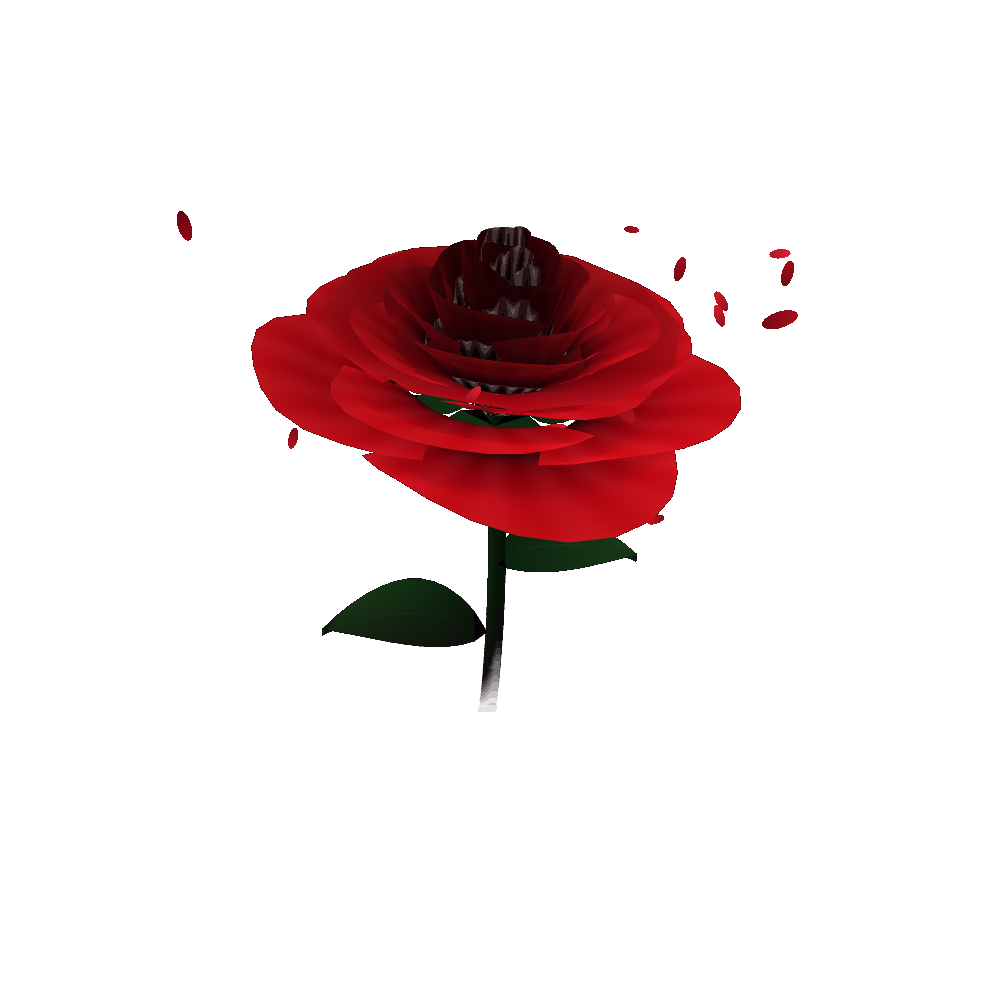
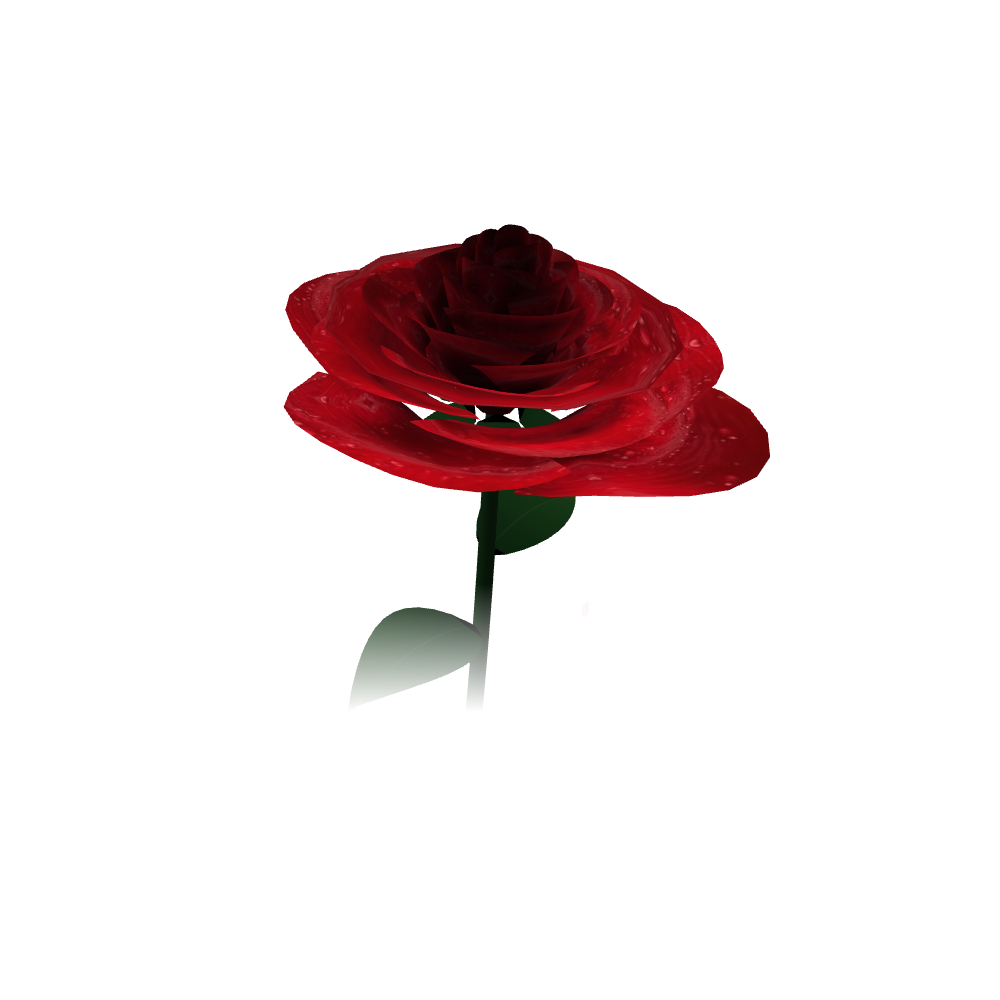
Hero: frosted-glass rose card over coloured orbs, transparent posters, glossier petals
Claude-Session: https://claude.ai/code/session_01FC4sCrQXk4htnob6MgsH5o

Changed region(s): [[0.248, 0.217, 0.806, 0.713], [0.155, 0.217, 0.217, 0.248], [0.775, 0.248, 0.806, 0.279]]

diff --git a/gulegul-3d-flower/index.html b/gulegul-3d-flower/index.html
@@ -45,7 +45,12 @@ h1 em{font-style:italic;color:var(--primary)}
 .btn svg{width:18px;height:18px;flex:none}
 
 /* The rose is sized by its container, never the viewport — this is what stops the clipped hero. */
-.hero-art{position:relative;border-radius:28px;background:radial-gradient(75% 65% at 50% 38%,#4a0c1a 0%,#230610 55%,#12030a 100%);box-shadow:0 30px 70px -30px rgba(131,24,67,.55),inset 0 1px 0 rgba(255,255,255,.12);width:100%;aspect-ratio:1/1;max-height:70svh;min-height:300px;justify-self:center;overflow:hidden;contain:layout paint}
+.hero-art{position:relative;border-radius:32px;background:linear-gradient(145deg,rgba(255,255,255,.52),rgba(255,255,255,.16) 55%,rgba(255,214,232,.30));border:1px solid rgba(255,255,255,.7);box-shadow:0 30px 70px -28px rgba(131,24,67,.45),inset 0 1px 0 rgba(255,255,255,.95),inset 0 -1px 0 rgba(255,255,255,.25);-webkit-backdrop-filter:blur(26px) saturate(180%);backdrop-filter:blur(26px) saturate(180%);width:100%;aspect-ratio:1/1;max-height:70svh;min-height:300px;justify-self:center;overflow:hidden;contain:layout paint}
+@supports not ((backdrop-filter:blur(1px)) or (-webkit-backdrop-filter:blur(1px))){.hero-art{background:rgba(255,236,246,.95)}}
+/* coloured orbs behind the glass so the blur has something to refract */
+.hero::before,.hero::after{content:"";position:absolute;z-index:-1;border-radius:50%;filter:blur(8px);pointer-events:none}
+.hero::before{width:min(46vw,520px);aspect-ratio:1;right:6%;top:6%;background:radial-gradient(circle at 35% 35%,#ff5fa2,#c2185b 60%,transparent 72%);opacity:.6}
+.hero::after{width:min(34vw,380px);aspect-ratio:1;right:30%;bottom:2%;background:radial-gradient(circle at 40% 40%,#ffd27a,#f06292 55%,transparent 72%);opacity:.55}
 @media(min-width:960px){.hero-art{aspect-ratio:auto;height:min(78svh,720px);max-height:none}}
 .hero-art .rose-canvas,.hero-art .rose-poster{position:absolute;inset:0;width:100%;height:100%;display:block}
 .hero-art .rose-poster{object-fit:contain;opacity:1;transition:opacity .6s ease}
@@ -77,8 +82,9 @@ h1 em{font-style:italic;color:var(--primary)}
 .chip-b{right:4%;bottom:14%}
 @media(min-width:960px){.chip{padding:14px 20px;font-size:13px}.chip b{font-size:20px}.chip-a{left:2%;top:18%}.chip-b{right:2%;bottom:20%}}
 body.poster-mode .nav,body.poster-mode .chip,body.poster-mode .copy,body.poster-mode .hero-art .rose-poster{display:none!important}
-body.poster-mode{background:#12030a}
-body.poster-mode .hero-art{background:none;box-shadow:none;border-radius:0}
+body.poster-mode{background:transparent}
+body.poster-mode .hero-art{background:none;box-shadow:none;border:0;border-radius:0;-webkit-backdrop-filter:none;backdrop-filter:none}
+body.poster-mode .hero::before,body.poster-mode .hero::after{display:none}
 body.poster-mode .hero{background:none;padding:0;min-height:0;display:block}
 body.poster-mode .hero-grid{display:block;max-width:none}
 </style>
@@ -103,7 +109,7 @@ body.poster-mode .hero-grid{display:block;max-width:none}
           </a>
         </div>
       </div>
-      <div class="hero-art" data-rose role="img" aria-label="A slowly turning red rose">
+      <div class="hero-art" data-rose role="img" aria-label="A red rose blooming">
         <img class="rose-poster rose-bud" src="rose-bud.png" alt="" width="1000" height="1000" decoding="async">
         <img class="rose-poster rose-open" src="rose-poster.png" alt="" width="1000" height="1000" decoding="async" loading="lazy">
       </div>

diff --git a/gulegul-3d-flower/rose.js b/gulegul-3d-flower/rose.js
@@ -183,7 +183,7 @@
     '  float ndv = max(dot(N,V),0.0);',
     '  float rim = pow(1.0 - ndv, 3.0);',
     '  vec3 H = normalize(L + V);',
-    '  float spec = pow(max(dot(N,H),0.0), 28.0) * 0.12;',
+    '  float spec = pow(max(dot(N,H),0.0), 22.0) * 0.2;',
     '  vec3 c = col * diff * ao + col * back + vec3(0.75,0.05,0.10) * rim * 0.38 * sheen * (0.4 + 0.6 * ao) + vec3(1.0,0.82,0.8) * spec * ao * sheen;',
     '  gl_FragColor = vec4(c, 1.0);',
     '}'

diff --git a/gulegul-3d-flower/README.md b/gulegul-3d-flower/README.md
@@ -3,7 +3,7 @@
 Drop-in replacement for the three.js rose in `.hero-art` on `index-new.html`.
 
 - `rose.js` — dependency-free WebGL renderer (no three.js / CDN). Procedural rose: golden-angle petal spiral, sepals, stem, leaves, falling rose petals.
-- `rose-poster.png` — pre-rendered frame, shown until WebGL is live and kept as the fallback (no WebGL, context loss).
+- `rose-poster.png` — pre-rendered frame, shown until WebGL is live and kept as the fallback (no WebGL, context loss). Both posters have transparent backgrounds so they sit on the glass card.
 - `index.html` — demo hero (Cormorant Garamond + Montserrat, pink/gold tokens from the ui-ux-pro-max design system).
 
 ## Use on the live page
